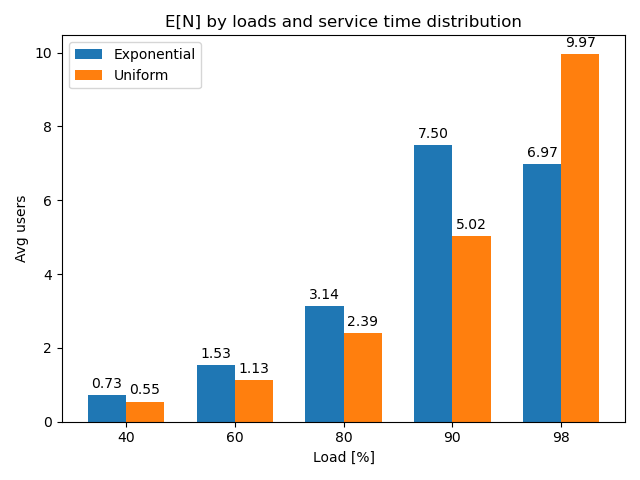
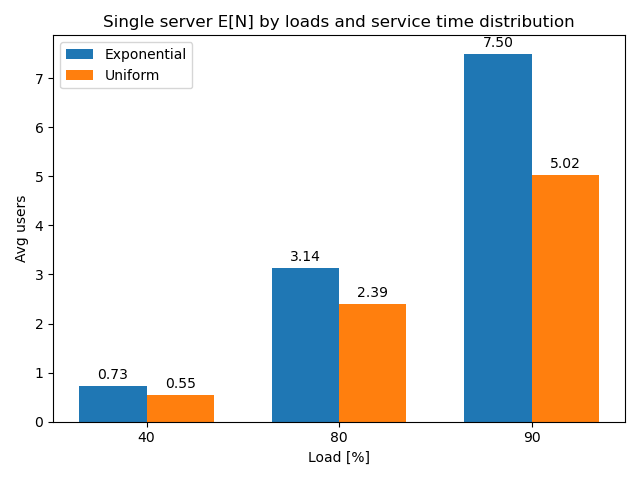
Lab completed, graph bit messy

diff --git a/Lab1/lab1_v2.py b/Lab1/lab1_v2.py
@@ -8,14 +8,15 @@ import os
 # useful variables
 runs = 10
 sim_time = 1000
-mu_service = 2 # service rate, parameter of the exp distribution
+mu_service = 4.5 # service rate, parameter of the exp distribution
 uni_param = {'a':1, 'b': 3} # parameter for the uniform distribution of the service time
 # for this simulation 'a' kept to 1 and varied only b for the load
 lambda_arrival = 5 # arrival rate, parameter of Poisson distr.
 confidence_level = 0.95
-waiting_line = 2 # specify a number for finite capacity
+waiting_line = 3 # specify a number for finite capacity or a list for check the impact 
+# with the function on purpose
 # set the waiting line as empty string for infinite capacity queue
-n_servers = 2 # set to integer > 1 to exploit the multi server approach
+n_servers = 1 # set to integer > 1 to exploit the multi server approach
 uniform = True
 
 if uniform:
@@ -135,6 +136,7 @@ def pollaczek_khintchin(uni_dict):
     # compute the coefficient of variation
     var = (uni_dict['b'] - uni_dict['a'])**2 / 12
     c = var / mean**2
+    print(f'Coefficient of variation: C = {c:.2f}')
 
     E_N = (1/lambda_arrival)*mean + ((1/lambda_arrival)*mean)**2 * (1+c)/(2*(1-mean/lambda_arrival))
     E_T = E_N / (1/lambda_arrival)
@@ -147,6 +149,7 @@ random.seed(22)
 
 # RUNS LOOP
 for _ in range(runs): 
+
     # INITIALIZATION
     users = 0
     time = 0
@@ -232,7 +235,6 @@ else:
         df.to_csv(f'Lab1/data/exp_service_{int(load*100)}load_MM{n_servers}B.csv', **options)
 
 
-
 # PRINT COMPARISON THEORICAL/EMPIRICAL
 print("\n","*"*10,"  COMPARISON THEORICAL/EMPIRICAL  ","*"*10,"\n")
 print("Nominal arrival rate: ",1.0/lambda_arrival)
@@ -252,20 +254,21 @@ else:
     # MM1B formulas only for markovian
     if uniform == False:
         ro = (1/lambda_arrival)/(1/mu_service*n_servers)
-        loss_theorical = (1 - ro) / (1 - ro**(waiting_line+1)) * ro**waiting_line
+        loss_theorical = (1 - ro) / (1 - ro**(waiting_line+2)) * ro**(waiting_line+1)
         print(f'\nLoss probability \nTheorical= {loss_theorical*100} % - Empirical= {avg_loss/avg_arr*100} %')
 
         # computation E[N] theorical
         e_n = 0
-        for i in range(0, waiting_line+1): # in [1,5] in this case
-            e_n += (1-ro) / (1-ro**(waiting_line+1)) * ro**i * i 
+        for i in range(0, waiting_line+2): # in [1,5] in this case
+            e_n += (1-ro) / (1-ro**(waiting_line+2)) * ro**i * i 
         e_lambda = (1/lambda_arrival) - (1/lambda_arrival)*loss_theorical
         e_t = e_n / e_lambda
 
         print("\nAverage number of users\nTheorical: ", e_n,\
             "  -  Avg empirical: ",avg_us/time)
         print("Average delay \nTheorical= ",e_t,"  -  Avg empirical: ",avg_delays)
-
+    else:
+        print(f'\nEmpirical loss probability = {avg_loss/avg_arr*100} %')
 
 
 print("\n","*"*40)

diff --git a/Lab1/lab1_graph.py b/Lab1/lab1_graph.py
@@ -7,7 +7,7 @@ import csv
 
 def plot_comparison_ex1(exp_list, uni_list, out_filename, delays=False):
 
-    labels = ['40', '60', '80', '90', '98']
+    labels = ['40', '80', '90']
     x = np.arange(len(labels)) # the label location
     width = 0.35 # width of the bars
 
@@ -17,10 +17,10 @@ def plot_comparison_ex1(exp_list, uni_list, out_filename, delays=False):
 
     ax.set_xlabel('Load [%]')
     if delays:
-        ax.set_title('E[T] by loads and service time distribution')
+        ax.set_title(' Single server E[T] by loads and service time distribution')
         ax.set_ylabel('Delays [s]')
     else:
-        ax.set_title('E[N] by loads and service time distribution')
+        ax.set_title('Single server E[N] by loads and service time distribution')
         ax.set_ylabel('Avg users')
 
     ax.set_xticks(x)
@@ -44,16 +44,20 @@ def plot_comparison_ex1(exp_list, uni_list, out_filename, delays=False):
 
     plt.savefig('Lab1/images/'+out_filename)
 
+def find_files(queue_type):
+    # find the .csv files
+    exp_files_paths = []
+    uni_files_paths = []
+    for _file in os.listdir(os.getcwd()+"/Lab1/data"):
+        if _file.startswith("exp") and _file.find(queue_type) > 0:
+            exp_files_paths.append('Lab1/data/'+_file)
+        if _file.startswith("uni") and _file.find(queue_type) > 0:
+            uni_files_paths.append('Lab1/data/'+_file)
 
+    return exp_files_paths, uni_files_paths
 
-# find the .csv files
-exp_files_paths = []
-uni_files_paths = []
-for _file in os.listdir(os.getcwd()+"/Lab1/data"):
-    if _file.startswith("exp"):
-        exp_files_paths.append('Lab1/data/'+_file)
-    if _file.startswith("uni"):
-        uni_files_paths.append('Lab1/data/'+_file)
+# modify here to get the right files
+exp_files_paths, uni_files_paths = find_files('B')
 
 # make a folder
 if os.listdir(os.getcwd()+"/Lab1").__contains__("images") == False:
@@ -92,7 +96,7 @@ for _file in uni_files_paths:
 
 
 
-plot_comparison_ex1(exp_users, uni_users, 'avg_users_comparison.png')
-plot_comparison_ex1(exp_delays, uni_delays, 'delays_comparison.png')
+plot_comparison_ex1(exp_users, uni_users, 'avg_users_comparison_B.png')
+plot_comparison_ex1(exp_delays, uni_delays, 'delays_comparison_B.png', delays=True)
 
 
